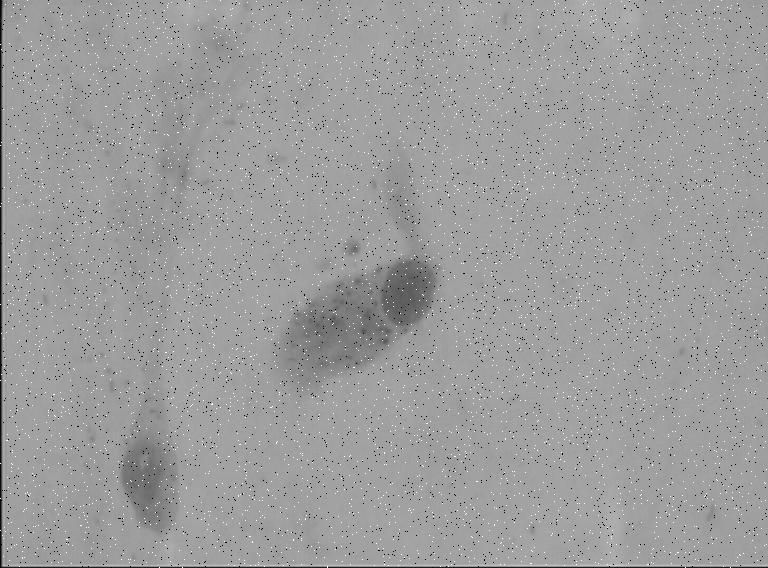
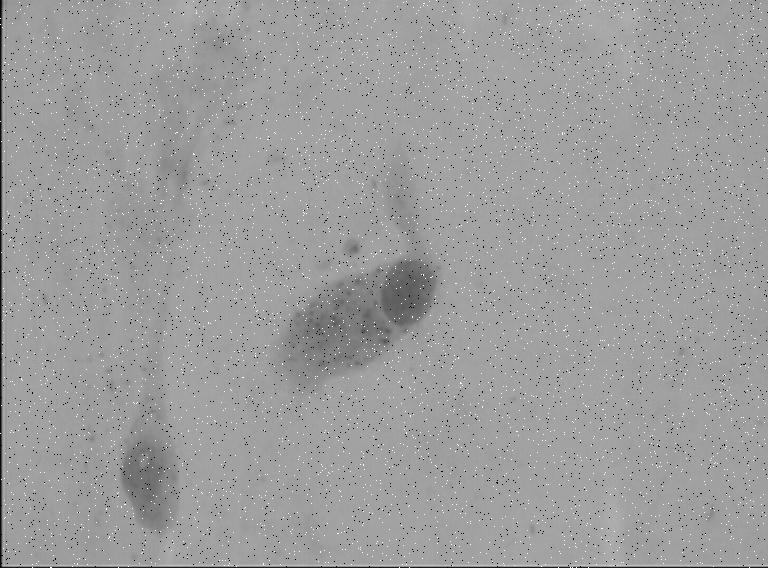
improved S&P noise adder in para

diff --git a/src/Main.java b/src/Main.java
@@ -38,34 +38,32 @@ public class Main {
                     File output_file = new File("original.jpg");//"avg - cell1Gray.jpg");
                     ImageIO.write(originalImage, "jpg", output_file);
 
-                    // TODO which is better?
+                    // TODO which is better gray?
 //                    BufferedImage grayImage = grayScale.convertToGrayScale(originalImage);
 //                    output_file = new File("grayscale.jpg");//"avg - cell1Gray.jpg");
 //                    ImageIO.write(grayImage, "jpg", output_file);
 
-                    long startTime = System.nanoTime();
+//                    long startTime = System.nanoTime();
+//                    BufferedImage grayImage = grayScale.convertToSingleColor(originalImage, "gray");
+//                    System.out.println("Graying Execution time in milliseconds : " + (System.nanoTime() - startTime) / 1000000);
+//                    output_file = new File("grayscale1.jpg");//"avg - cell1Gray.jpg");
+//                    ImageIO.write(grayImage, "jpg", output_file);
+
                     BufferedImage grayImage = grayScale.convertToSingleColor(originalImage, "gray");
-                    System.out.println("Graying Execution time in milliseconds : " + (System.nanoTime() - startTime) / 1000000);
-                    output_file = new File("grayscale1.jpg");//"avg - cell1Gray.jpg");
+                    output_file = new File("grayImage.jpg");//"avg - cell1Gray.jpg");
                     ImageIO.write(grayImage, "jpg", output_file);
 
-                    BufferedImage grayImage4 = grayScale.convertToSingleColor(originalImage, "gray");
-                    output_file = new File("grayImage4.jpg");//"avg - cell1Gray.jpg");
-                    ImageIO.write(grayImage4, "jpg", output_file);
 
-//                    startTime = System.nanoTime();
-//                    BufferedImage saltAndPepperImage = noiseAdder.createSaltAndPepperNoise(grayImage, 0.02);
+
+//                    long startTime = System.nanoTime();
+//                    BufferedImage saltAndPepperImage = noiseAdder.createSaltAndPepperNoise2(grayImage2, 0.02);
 //                    System.out.println("S&P Execution time in milliseconds : " + (System.nanoTime() - startTime) / 1000000);
 //                    output_file = new File("saltAndPepper.jpg");//"avg - cell1Gray.jpg");
 //                    ImageIO.write(saltAndPepperImage, "jpg", output_file);
 //
-//                    parallelMatrix = new ParallelMatrix();
-////                    NoiseAdder noiseAdder = new NoiseAdder();
-//                    NoiseAdder.FuncInterface noiseAdderCode = noiseAdder.getFuncInterface();
-//                    BufferedImage saltAndPepperImage2 = new BufferedImage(originalImage.getWidth(), originalImage.getHeight(), BufferedImage.TYPE_INT_RGB);
-//                    parallelMatrix.doInParallel (originalImage, saltAndPepperImage2, "gray", 0.05, noiseAdderCode, "S&P noise");
-//                    output_file = new File("saltAndPepper2.jpg");//"avg - cell1Gray.jpg");
-//                    ImageIO.write(grayImage2, "jpg", output_file);
+                    BufferedImage saltAndPepperImage = noiseAdder.createSaltAndPepperNoise(grayImage, 0.05);
+                    output_file = new File("saltAndPepper.jpg");//"avg - cell1Gray.jpg");
+                    ImageIO.write(saltAndPepperImage, "jpg", output_file);
 
 
 

diff --git a/src/NoiseAdder.java b/src/NoiseAdder.java
@@ -33,8 +33,23 @@ public class NoiseAdder {
         return fobj;
     }
 
+
+    public BufferedImage createSaltAndPepperNoise (BufferedImage image, double randomThreshold) {
+        // Parameter checking
+        if (randomThreshold > 1 || randomThreshold < 0) {
+            throw new IllegalArgumentException("randomThreshold must be between 0-1");
+        }
+
+
+        ParallelMatrix parallelMatrix = new ParallelMatrix();
+//        ProgressBar bar = new ProgressBar("Converting to GrayScale", originalImage.getWidth() * originalImage.getHeight());
+        BufferedImage newImage = new BufferedImage(image.getWidth(), image.getHeight(), BufferedImage.TYPE_INT_RGB);
+        parallelMatrix.doInParallel(image, newImage, null, 0.05, getFuncInterface(), "Adding Salt and Pepper Noise"); // randomThreshold (0.05) isnt used by grayScale
+        return newImage;
+    }
+
     // NOTE randomThreshold must be between 0-1
-    public  BufferedImage createSaltAndPepperNoise (BufferedImage image, double randomThreshold) throws IllegalArgumentException {
+    public  BufferedImage createSaltAndPepperNoise2 (BufferedImage image, double randomThreshold) throws IllegalArgumentException {
         if (randomThreshold > 1 || randomThreshold < 0) {
             throw new IllegalArgumentException("randomThreshold must be between 0-1");
         }

diff --git a/src/GrayScale.java b/src/GrayScale.java
@@ -40,9 +40,7 @@ public class GrayScale {
         ParallelMatrix parallelMatrix = new ParallelMatrix();
 //        ProgressBar bar = new ProgressBar("Converting to GrayScale", originalImage.getWidth() * originalImage.getHeight());
         BufferedImage newImage = new BufferedImage(originalImage.getWidth(), originalImage.getHeight(), BufferedImage.TYPE_INT_RGB);
-
-        BufferedImage grayImage2 = new BufferedImage(originalImage.getWidth(), originalImage.getHeight(), BufferedImage.TYPE_INT_RGB);
-        parallelMatrix.doInParallel(originalImage, grayImage2, "gray", 0.05, getFuncInterface(), "Converting to GrayScale"); // randomThreshold (0.05) isnt used by grayScale
+        parallelMatrix.doInParallel(originalImage, newImage, "gray", 0, getFuncInterface(), "Converting to GrayScale"); // randomThreshold (0) isnt used by grayScale
         return newImage;
     }
 
